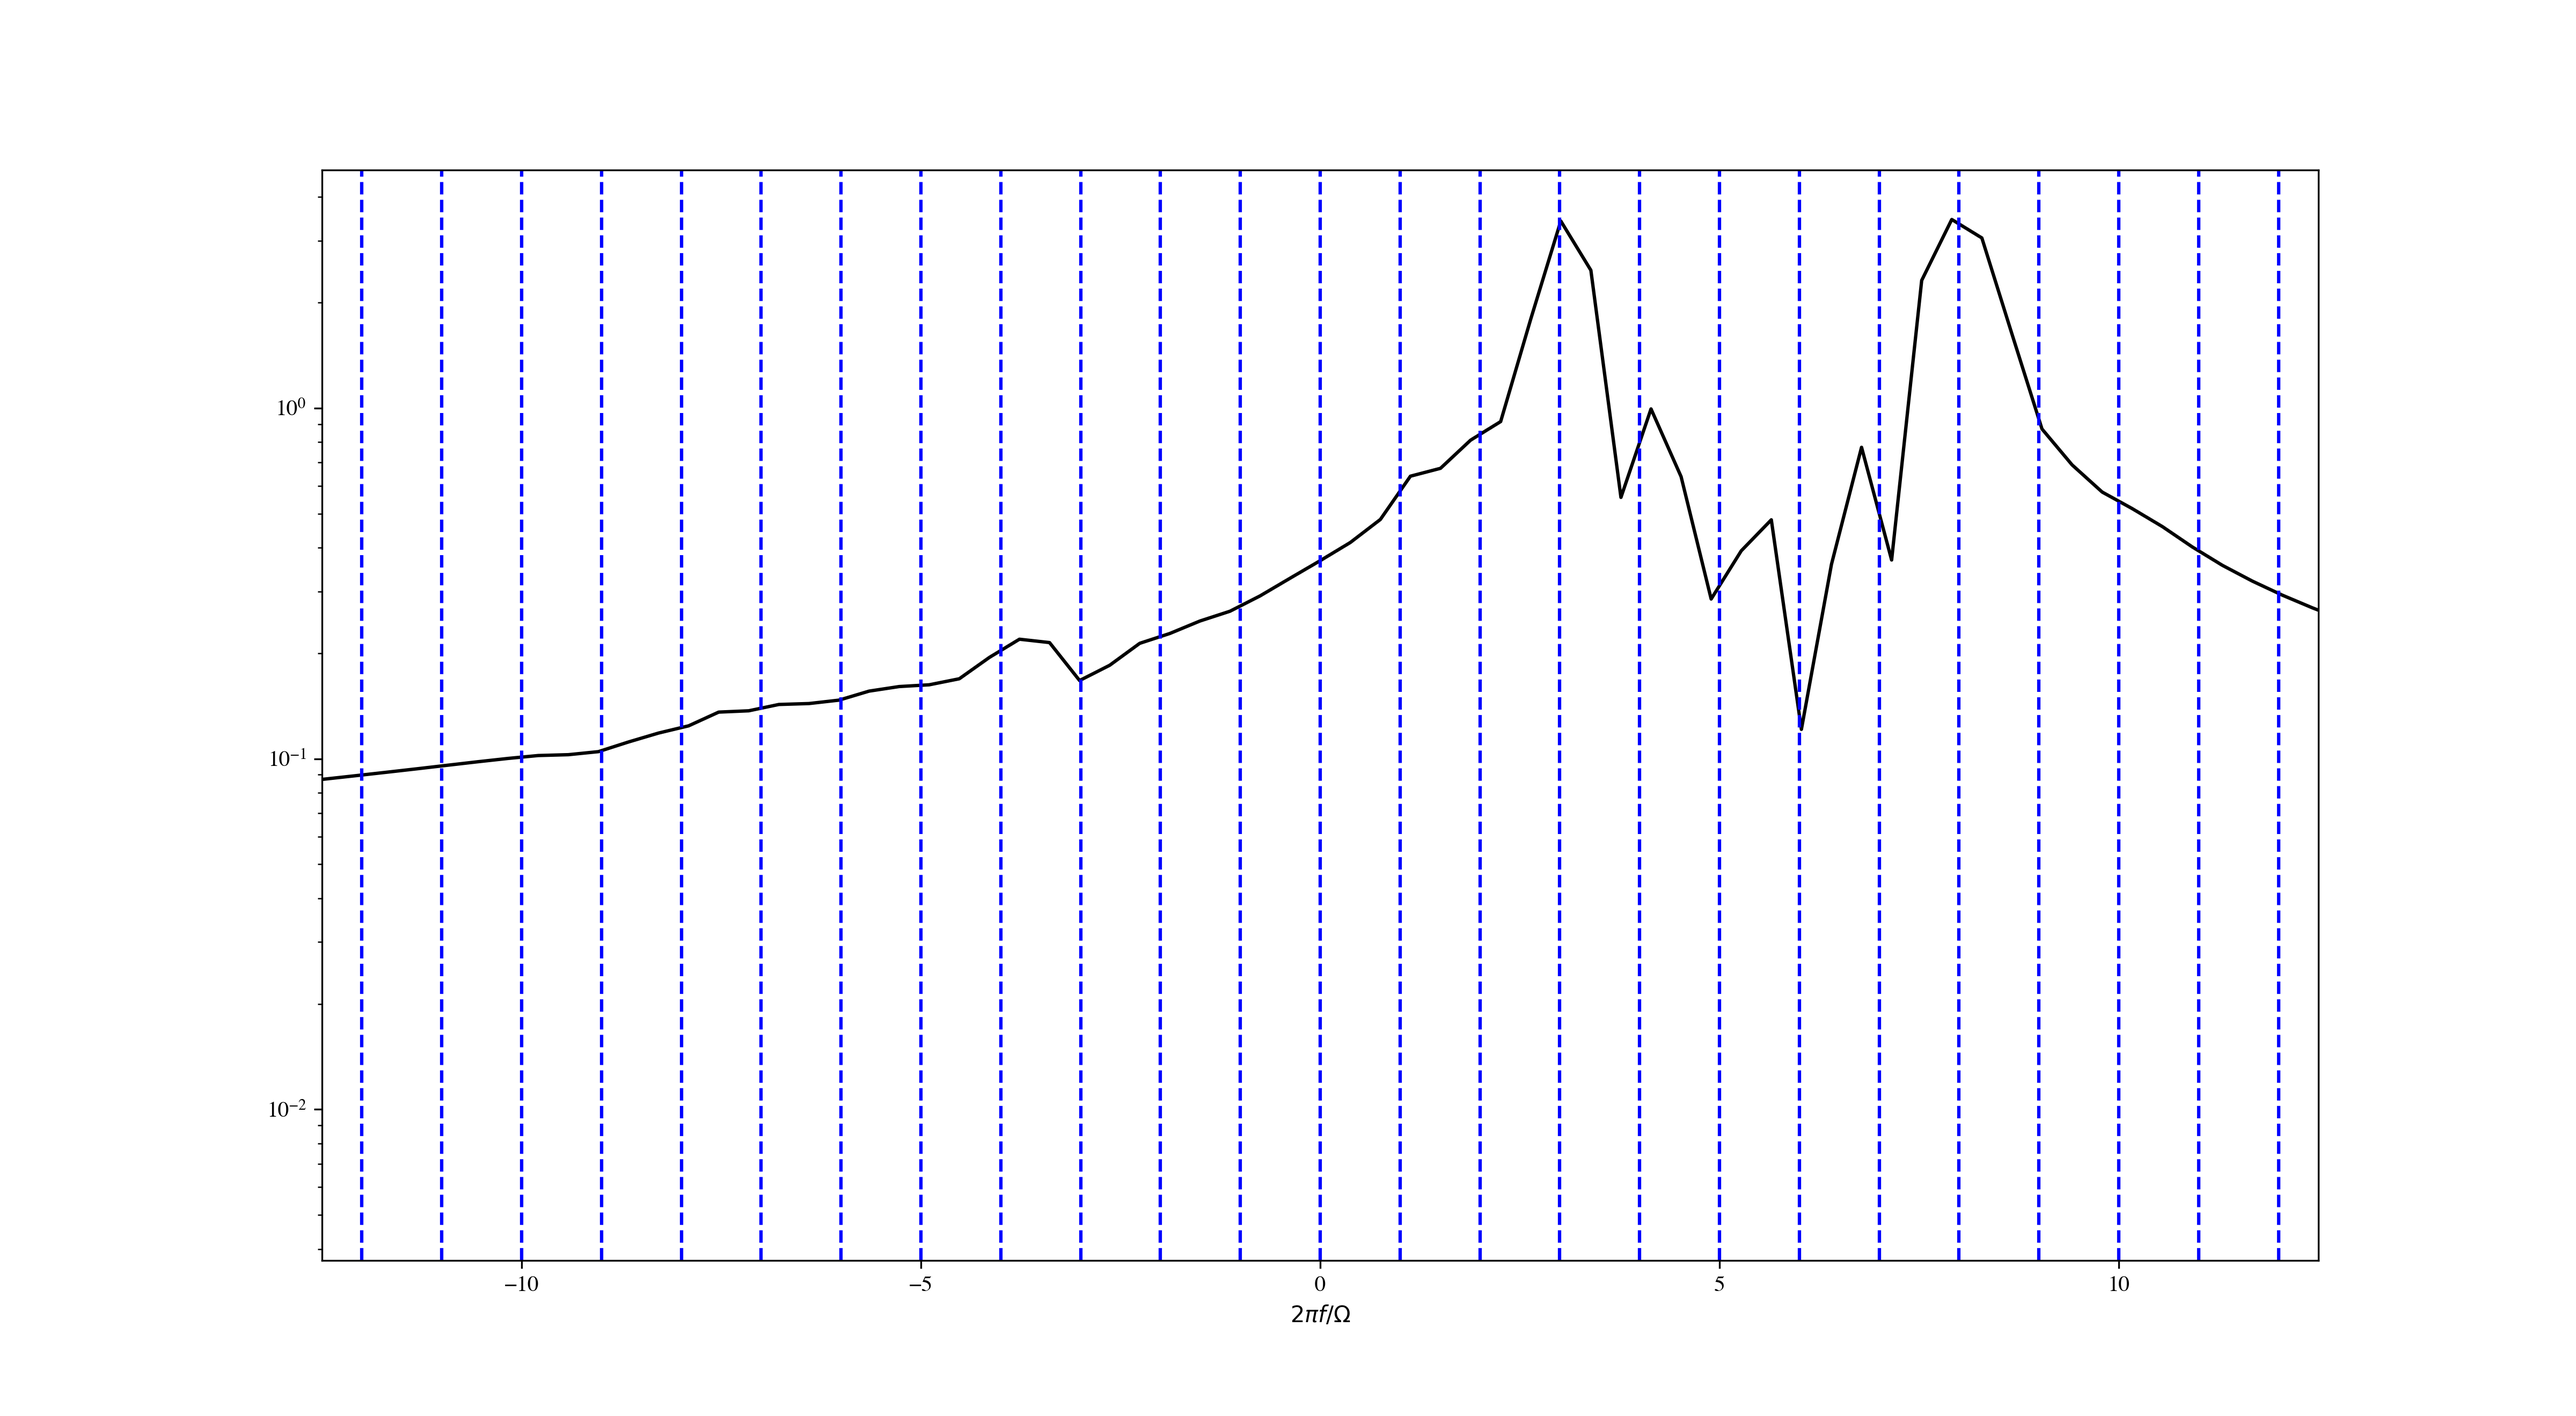
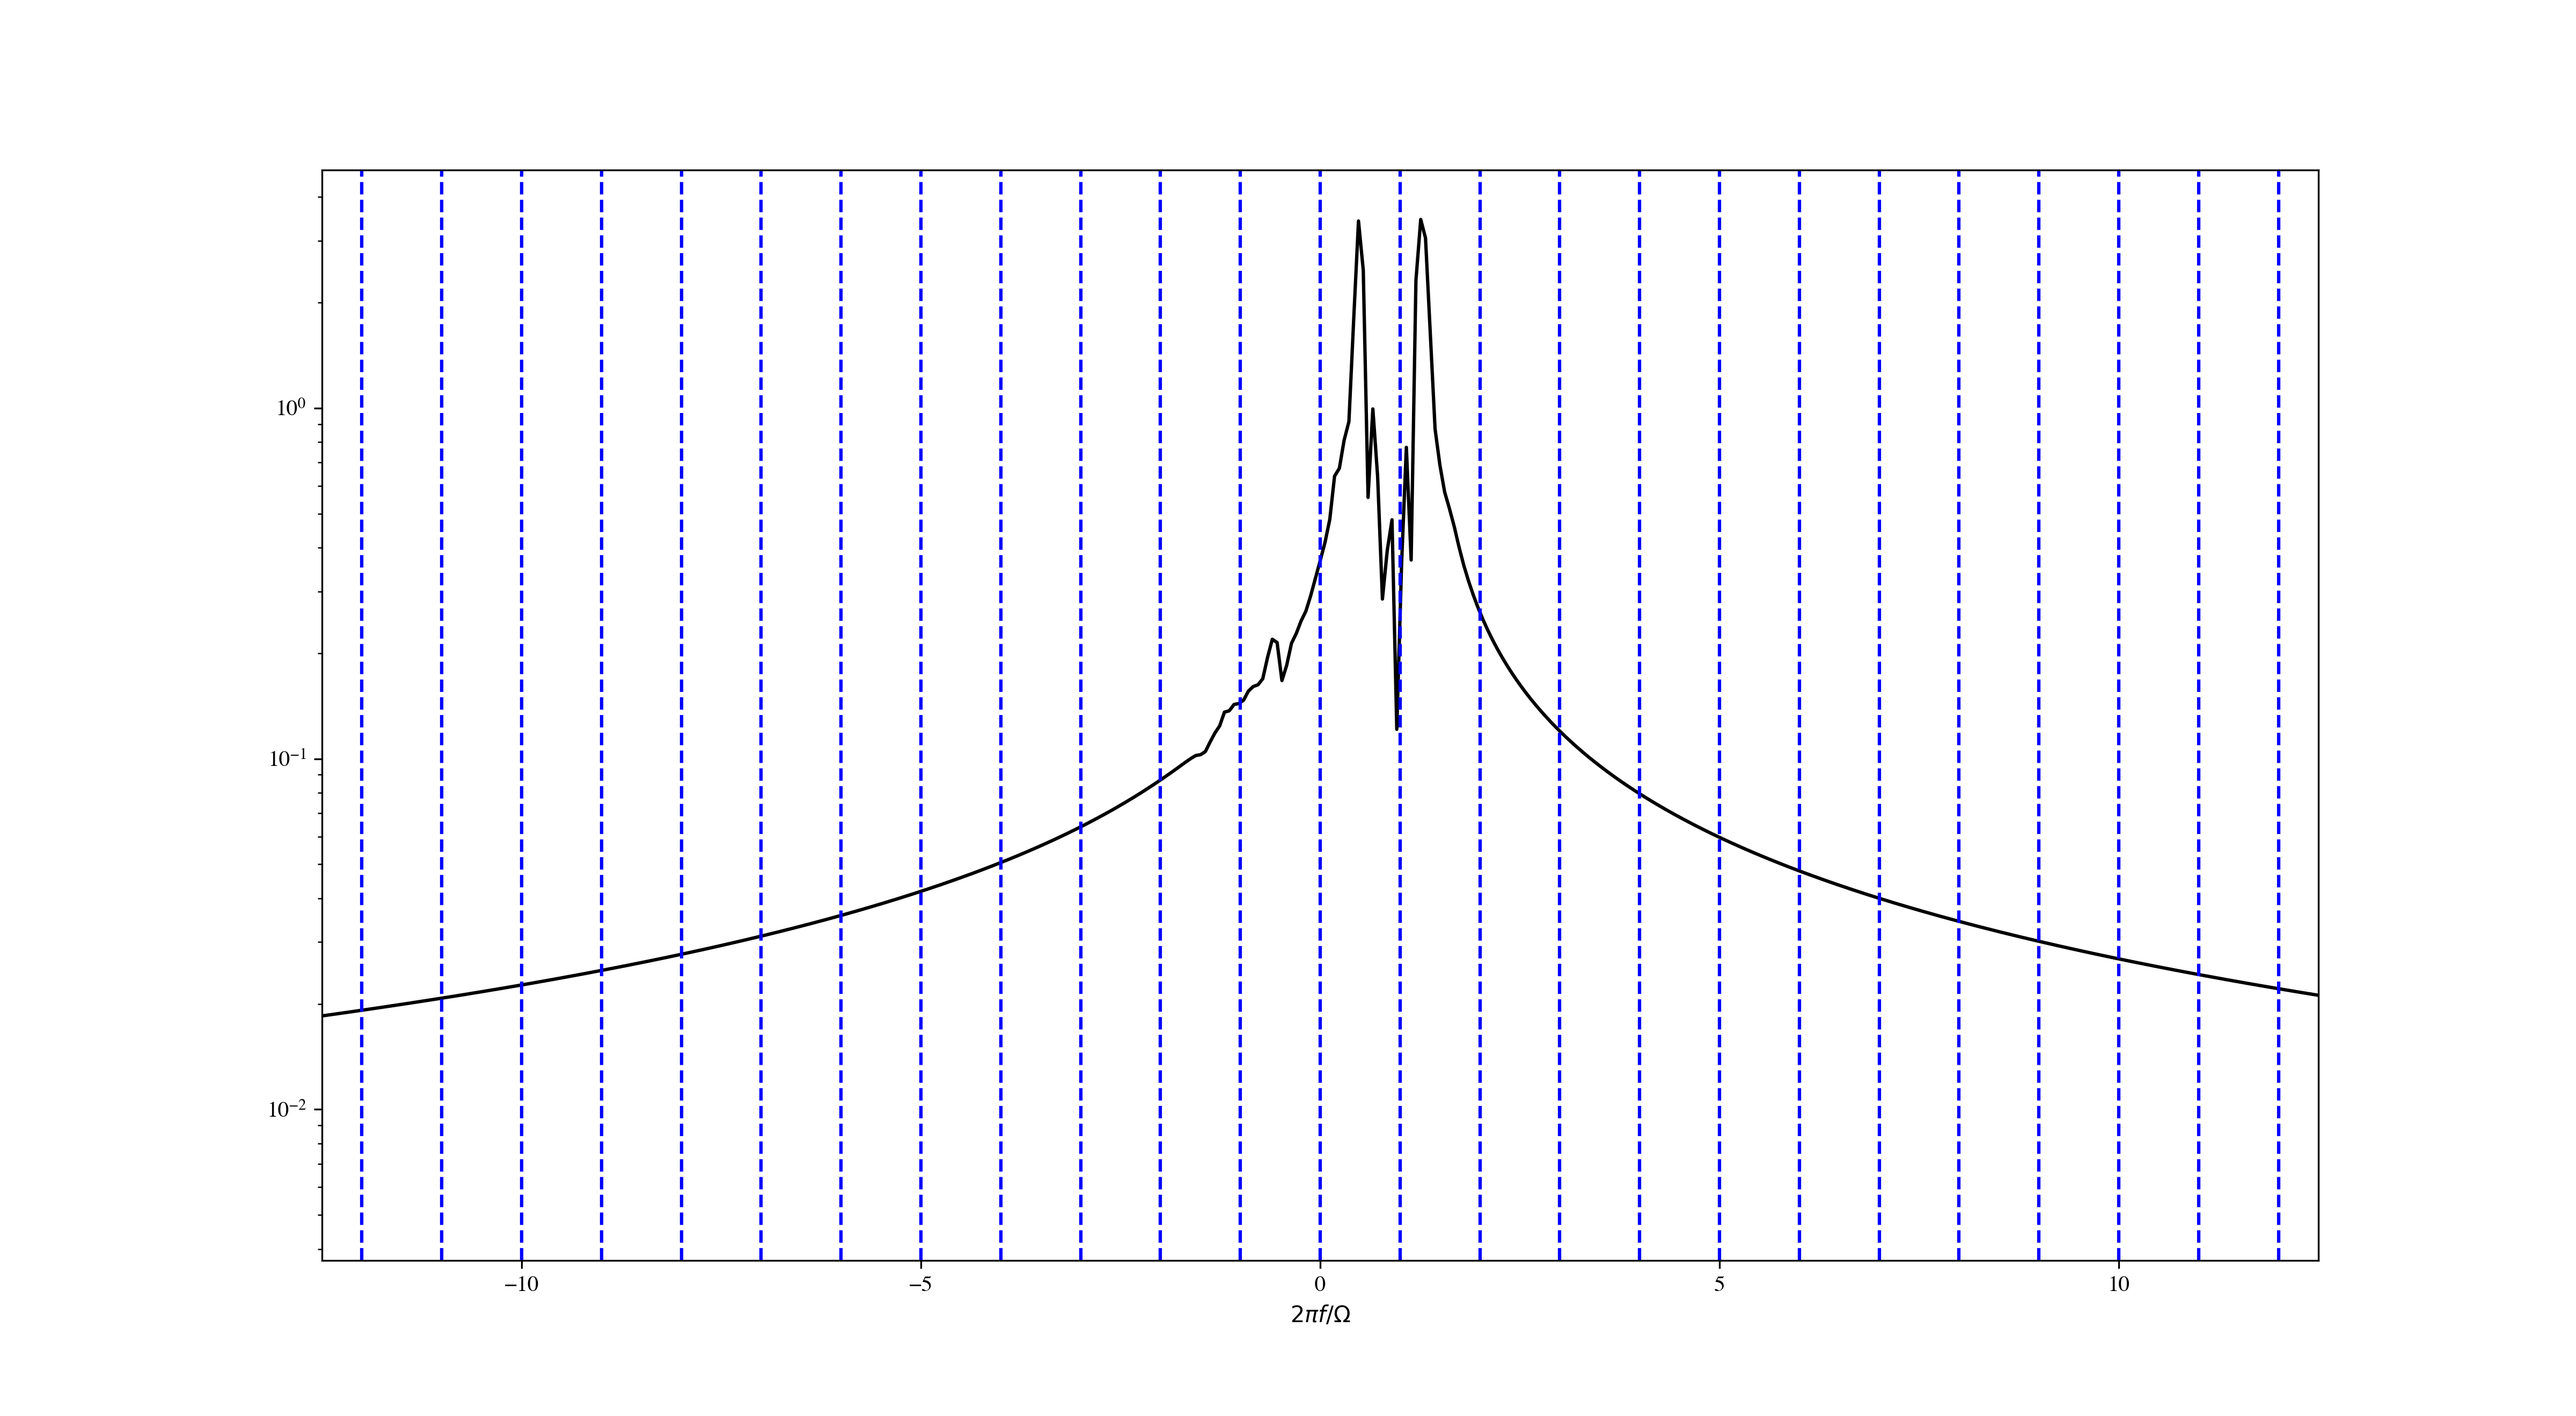
It was scaling (mostly I think), which means my plots may be scaled incorrectly, but that doesn't seem right. idk man, lets just move on.

diff --git a/denis-plot.py b/denis-plot.py
@@ -39,7 +39,7 @@ plt.close()
 plt.figure()
 mask = ssh.time >= 60
 masked_time = ssh.time[mask]
-freqAxis = 2*np.pi * np.fft.fftshift(np.fft.fftfreq(masked_time.size, d=np.mean(np.diff(masked_time)))) / ssh.omega
+freqAxis = np.fft.fftshift(np.fft.fftfreq(masked_time.size, d=np.mean(np.diff(masked_time)))) / ssh.omega
 plt.semilogy(freqAxis, np.abs(np.fft.fftshift(np.fft.fft(integratedcorr[mask]))), color='black')
 plt.xlabel(r"$2\pi f / \Omega$")
 
